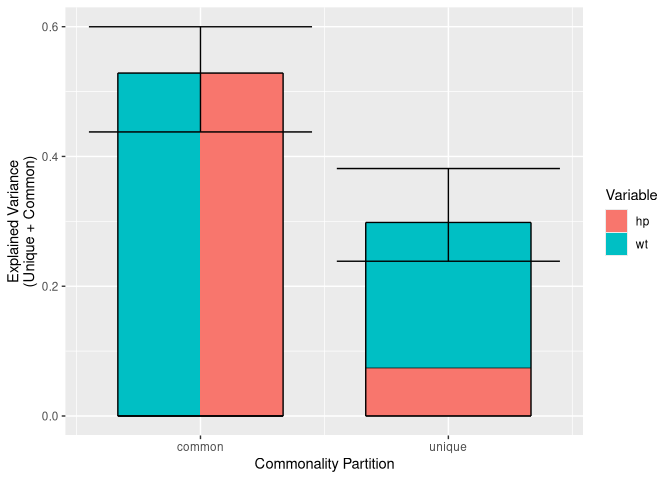
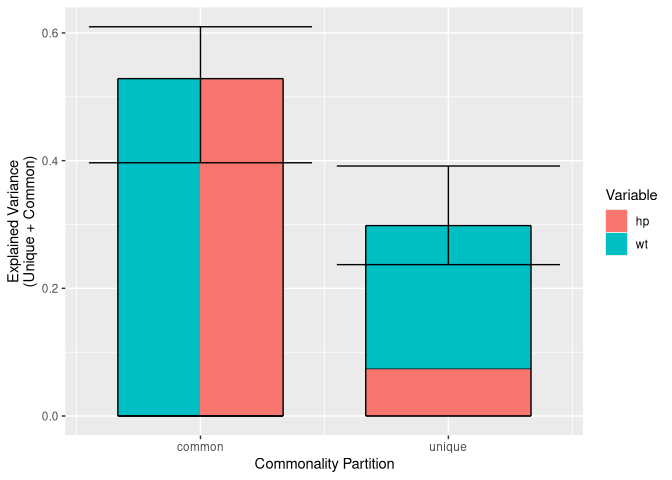
docs: update README, vignettes

diff --git a/README.md b/README.md
@@ -22,12 +22,11 @@ orders on top.
 
 ## Installation
 
-You can install the S4 version of ggcommonality (under development) from
+You can install ggcommonality (under development) from
 [GitHub](https://github.com/) with:
 
 ``` r
-# install.packages("pak")
-devtools::install_github("cmndrsn/ggcommonality", ref = "S4")
+devtools::install_github("cmndrsn/ggcommonality", build_vignettes = TRUE, force = TRUE)
 ```
 
 ## Example
@@ -60,7 +59,7 @@ p |> attributes() |> summary()
 #> wild_type        1    -none-                     character
 #> include_total    1    -none-                     logical  
 #> get_yhat         1    nonstandardGenericFunction function 
-#> bs_ci            1    -none-                     name     
+#> bs_ci            1    nonstandardGenericFunction function 
 #> ci_bounds        2    -none-                     numeric  
 #> seed             1    -none-                     name     
 #> ...              1    -none-                     name     
@@ -143,11 +142,11 @@ get_yhat(p)
 #> 
 #> $ci
 #>       Unique to wt         Unique to hp         Common to wt, and hp
-#> 2.5%             0.0980600            0.0274175            0.4413175
-#> 97.5%            0.3367575            0.1978650            0.5983050
+#> 2.5%              0.133045            0.0263950            0.4040925
+#> 97.5%             0.326220            0.1612175            0.6128200
 #>       Total               
-#> 2.5%             0.7218475
-#> 97.5%            0.9329300
+#> 2.5%             0.6657925
+#> 97.5%            0.9553275
 ```
 
 Commonality effects can be stacked in multiple ways:
@@ -191,9 +190,9 @@ effects.
 ``` r
 bs_ci(p)
 #> Bootstrapped confidence intervals:
-#>       category     lower     upper
-#> 2.5%        wt 0.5966200 0.8829875
-#> 2.5%1       hp 0.4777675 0.7305300
+#>       category    lower     upper
+#> 2.5%        wt 0.564400 0.8840525
+#> 2.5%1       hp 0.440255 0.7494500
 ```
 
 # Confidence intervals
@@ -212,15 +211,6 @@ If `stack_by = "partition"`, confidence intervals represent the sum of
 unique and joint effects for individual commonality partitions.
 Otherwise, if `stack_by = "common"`, separate confidence intervals are
 generated for the sum of unique effects and the sum of joint effects.
-
-<div class="note">
-
-For additional details about how confidence intervals can be flexibly
-defined for negative commonalities, see the [Advanced ggcommonality vignette](doc/advanced-ggcommonality.html)
-
-vignette.
-
-</div>
 
 ## Comparing confidence intervals
 
@@ -254,9 +244,16 @@ plot(p1) +
 
 # Getting help
 
-For additional information, read the help documentation
-`?ggcommonality()`, or [email Cameron
-Anderson](mailto:andersoc@mcmaster.ca).
+For additional details about on plotting with ggcommonality, see the
+‘Advanced ggcommonality’ vignette:
+
+``` r
+vignette('advanced-ggcommonality', 'ggcommonality')
+#> Warning: vignette 'advanced-ggcommonality' not found
+```
+
+You can also read the help documentation `?ggcommonality()`, or [email
+Cameron Anderson](mailto:andersoc@mcmaster.ca).
 
 # References
 
